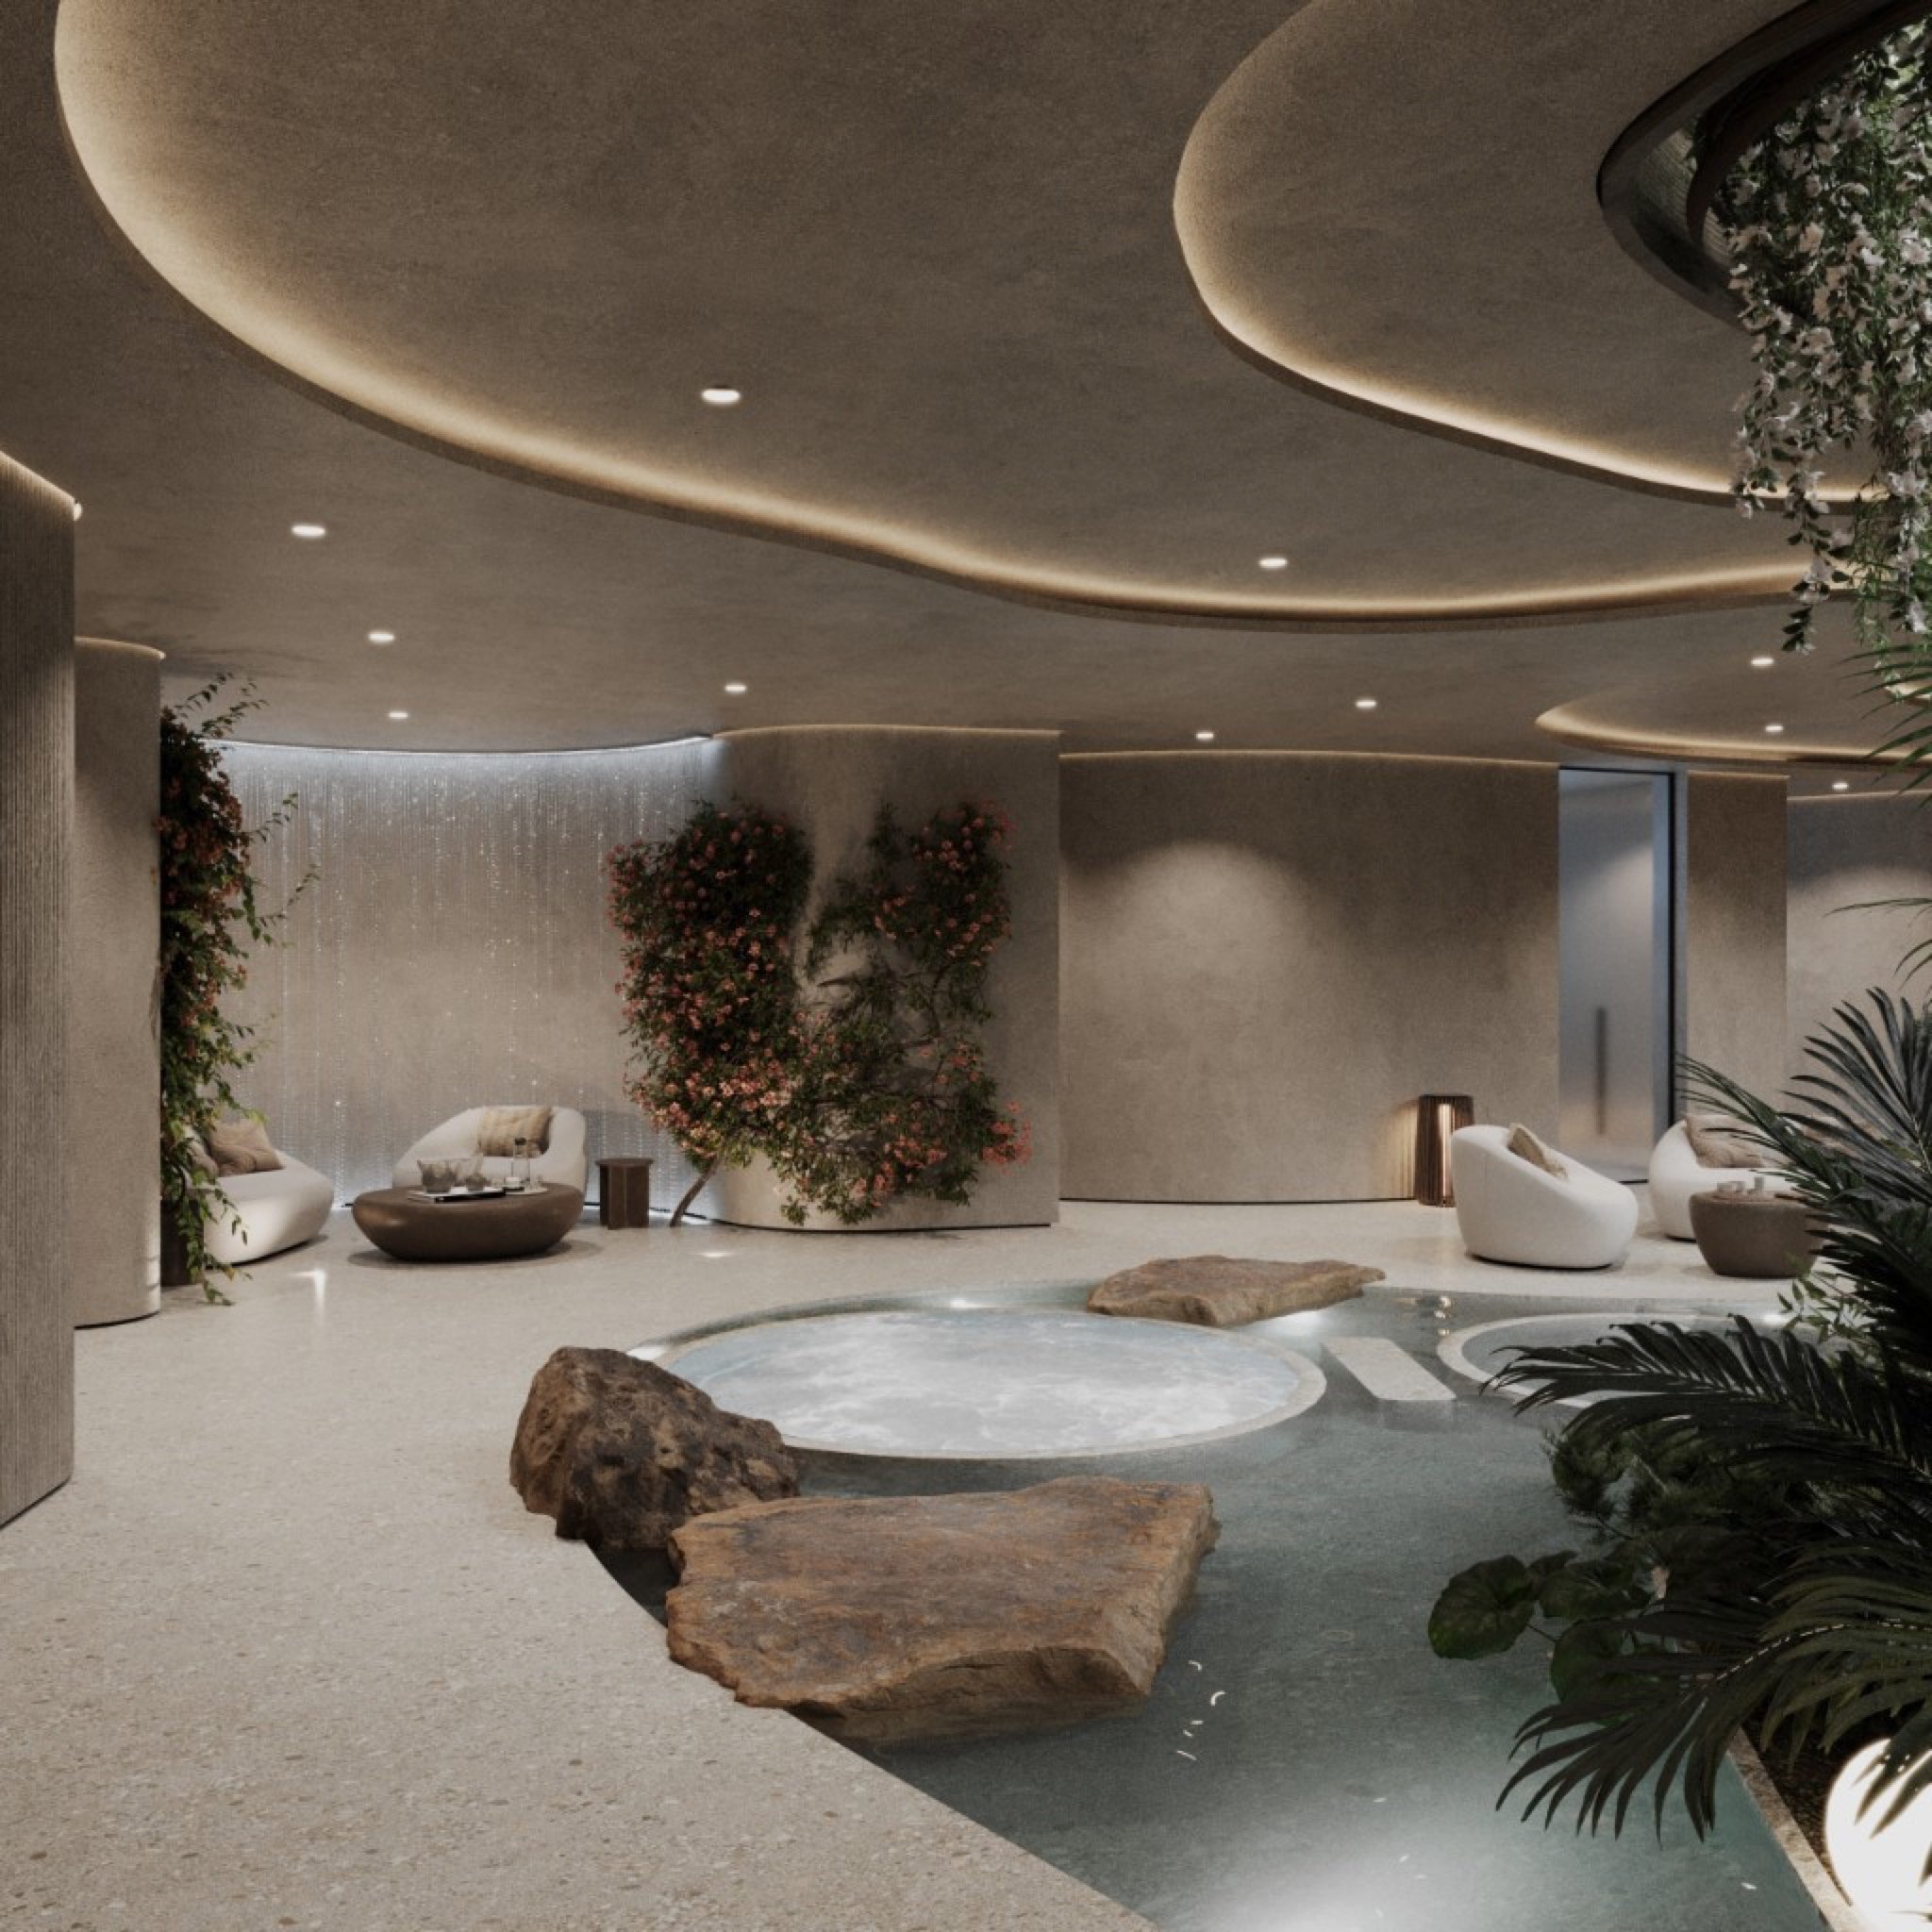
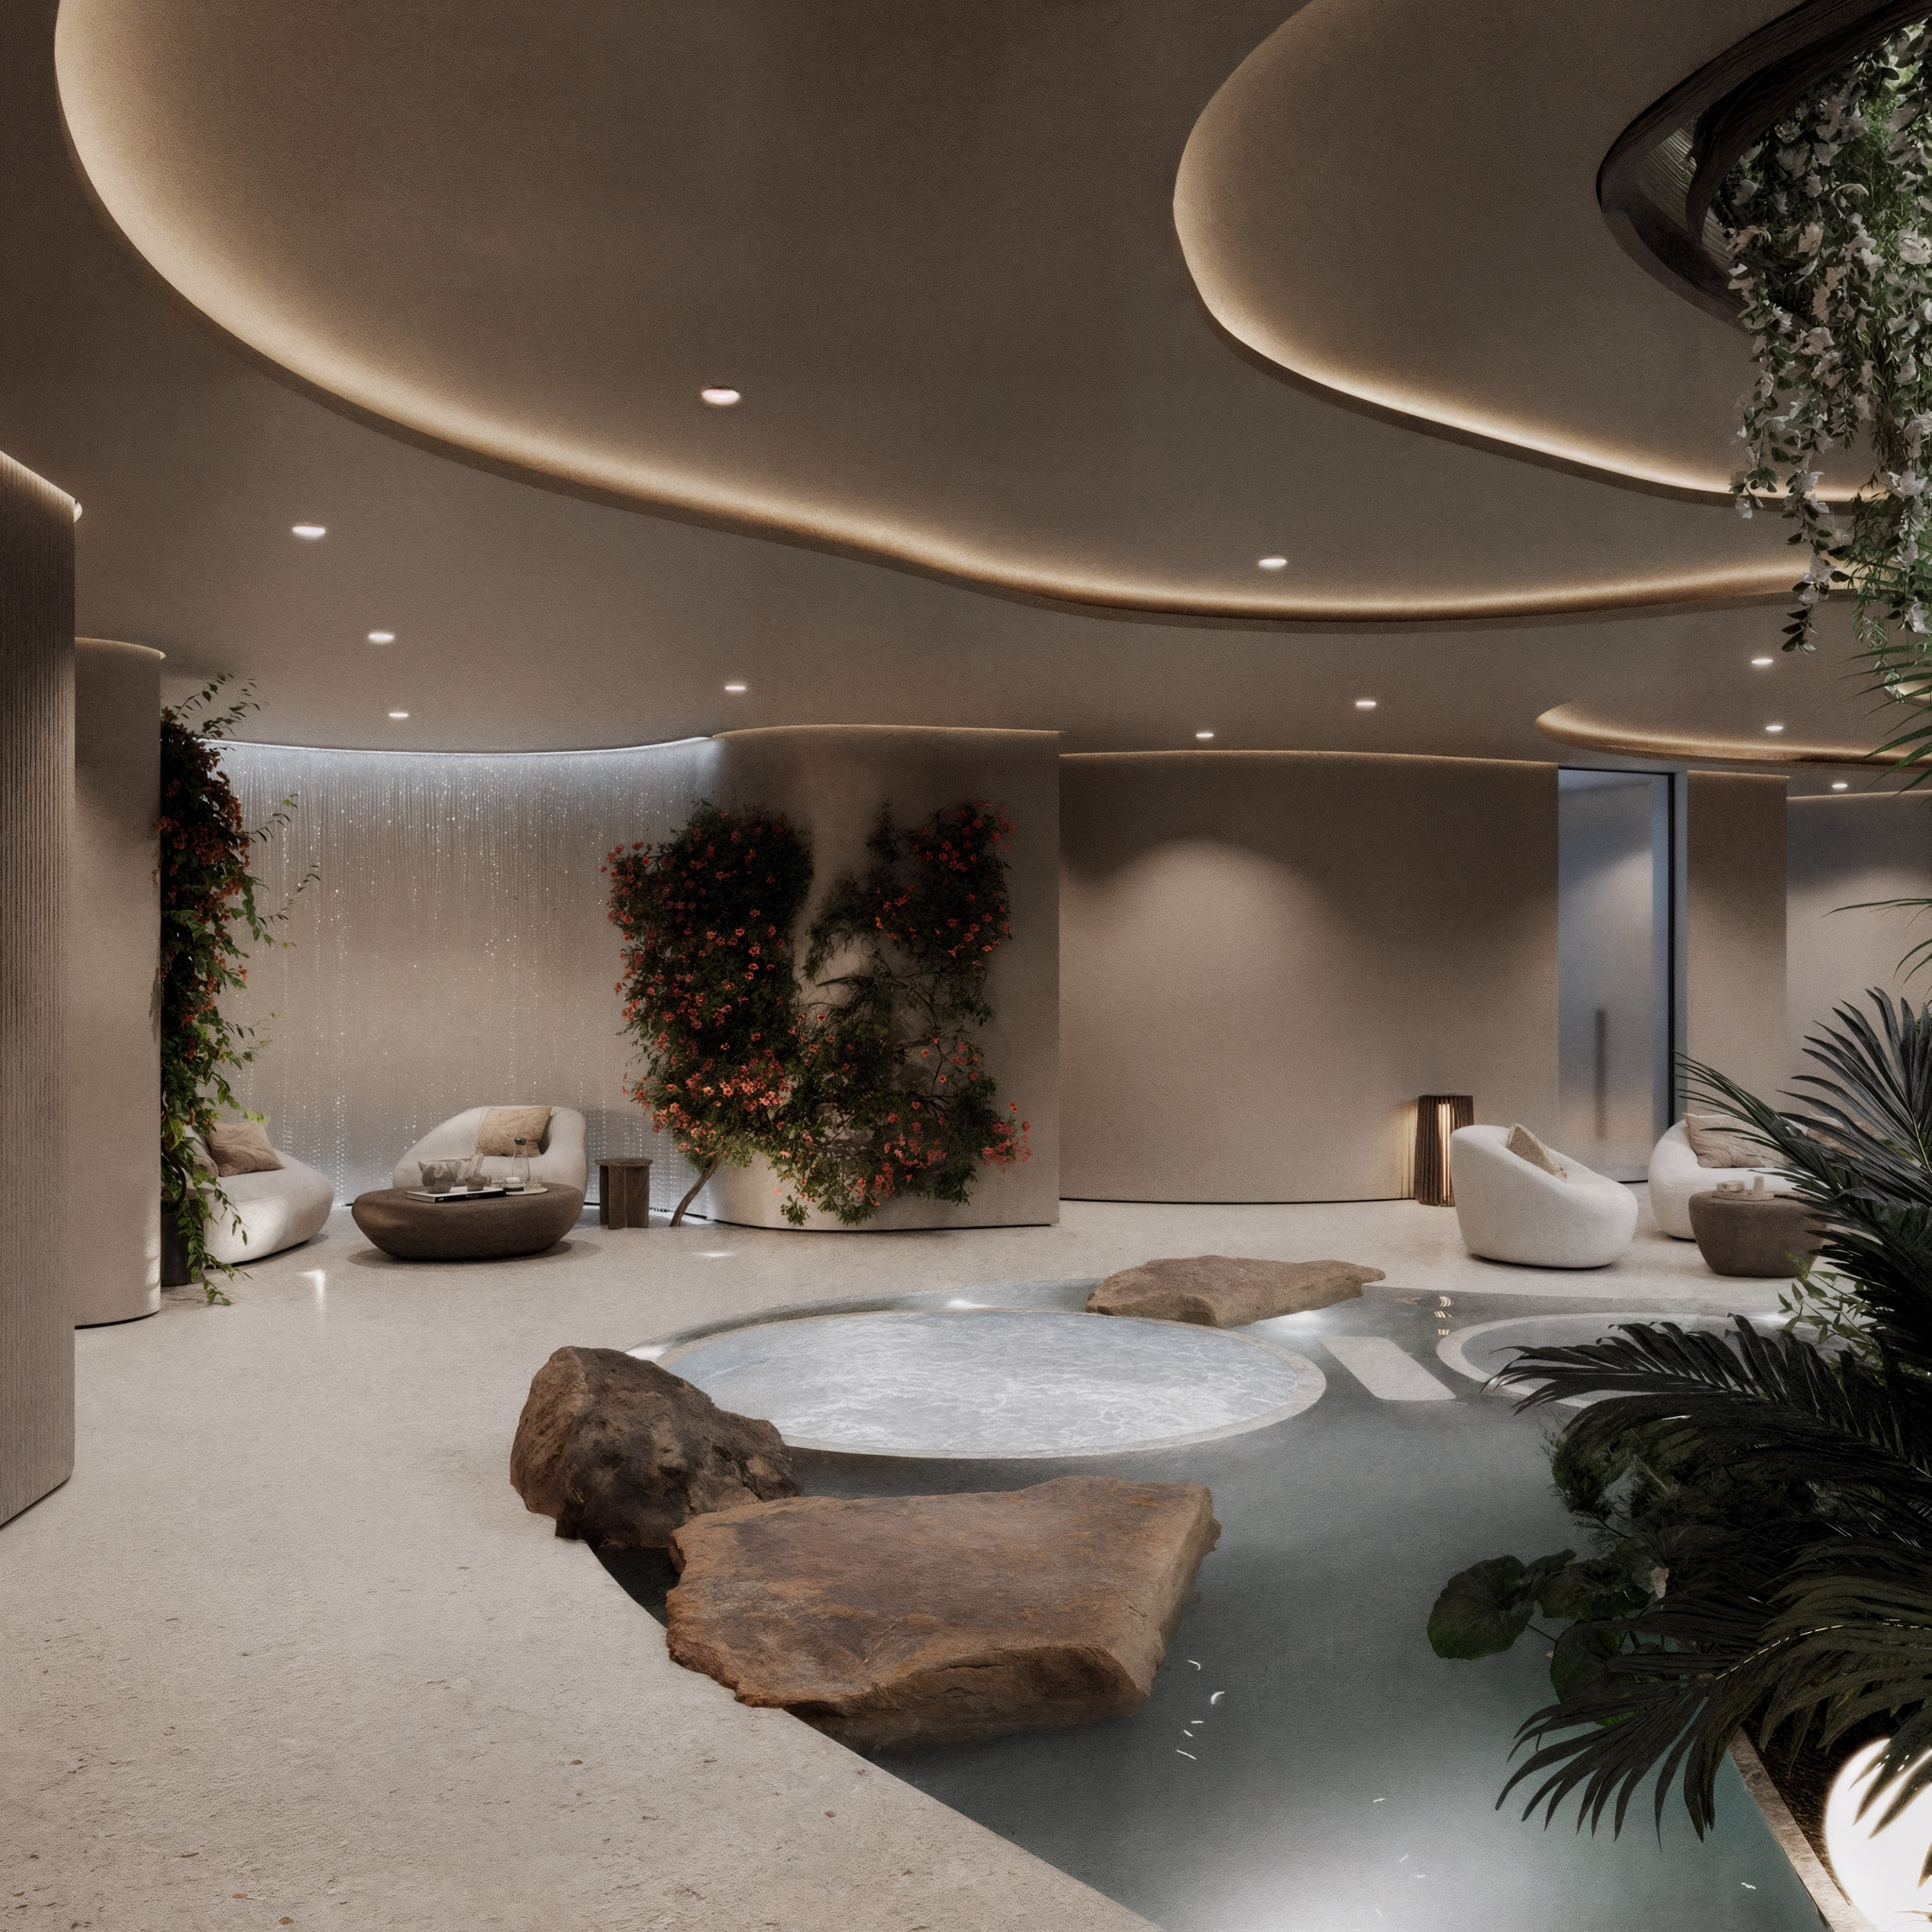
Update Jeri hero art and polish v3/v4 Days and Opening spacing.
Replace Jericoacoara hero with new Spa Lobby image, set Opening eyebrow to 16px in v4, increase Days top padding and meta-to-progress gap, and bump media cache version.

diff --git a/v4/overrides.css b/v4/overrides.css
@@ -52,7 +52,7 @@ body:has(.dock)::after {
 }
 
 .days__footer {
-  margin-top: 4px;
+  margin-top: calc(var(--space-sm) - var(--space-xxs));
 }
 
 .days__caption,
@@ -83,9 +83,9 @@ body:has(.dock)::after {
   border-radius: calc(24px * var(--days-scale));
 }
 
-/* Match ecosystem__copy top inset (60px) */
+/* Extra breathing room below Opening */
 #request.days {
-  padding-top: var(--space-section-top-60);
+  padding-top: calc(var(--space-section-top-60) + var(--space-md));
 }
 
 .opening__bg-slide .opening__bg-media.opening__bg-media--bleed {
@@ -296,8 +296,8 @@ body.menu-open .dock__icon-close {
 
 /* Opening copy typography */
 .opening__eyebrow {
-  font-size: 20px;
-  line-height: 1.3;
+  font-size: var(--text-sans-md);
+  line-height: var(--leading-sans);
 }
 
 .opening__title {

diff --git a/v3/overrides.css b/v3/overrides.css
@@ -50,7 +50,7 @@ body:has(.dock)::after {
 }
 
 .days__footer {
-  margin-top: 4px;
+  margin-top: calc(var(--space-sm) - var(--space-xxs));
 }
 
 .days__caption,
@@ -73,9 +73,9 @@ body:has(.dock)::after {
   pointer-events: none;
 }
 
-/* Match ecosystem__copy top inset (60px) */
+/* Extra breathing room below Opening */
 #request.days {
-  padding-top: var(--space-section-top-60);
+  padding-top: calc(var(--space-section-top-60) + var(--space-md));
 }
 
 .opening__bg-slide .opening__bg-media.opening__bg-media--bleed {

diff --git a/js/lazy-media.js b/js/lazy-media.js
@@ -1,7 +1,7 @@
 const ECOSYSTEM_GRADIENT =
   "linear-gradient(180deg, rgba(51, 47, 46, 0) 86.13%, #332f2e 108.21%)";
 
-export const MEDIA_VERSION = "20260612-1200";
+export const MEDIA_VERSION = "20260622-1500";
 
 /** No re-encode — keeps full source bitrate (footer CTA). */
 const SOURCE_ONLY_VIDEOS = new Set(["footer"]);

diff --git a/v3/index.html b/v3/index.html
@@ -311,6 +311,6 @@
       </button>
     </nav>
 
-    <script type="module" src="js/main.js?v=20260619-1200"></script>
+    <script type="module" src="js/main.js?v=20260622-1500"></script>
   </body>
 </html>

diff --git a/v3/js/data.js b/v3/js/data.js
@@ -2,7 +2,7 @@ export const HERO_LOCATIONS = [
   {
     id: "jericoacoara",
     label: "Jericoacoara, Brazil",
-    bg: "assets/enhanced_hero-bg-jericoacoara-suite.png?v=20260622-1100",
+    bg: "assets/enhanced_hero-bg-jericoacoara-suite.png?v=20260622-1500",
     href: "coming-soon.html",
   },
   {

diff --git a/v4/index.html b/v4/index.html
@@ -312,6 +312,6 @@
       </button>
     </nav>
 
-    <script type="module" src="js/main.js?v=20260619-1200"></script>
+    <script type="module" src="js/main.js?v=20260622-1500"></script>
   </body>
 </html>

diff --git a/v4/js/data.js b/v4/js/data.js
@@ -2,7 +2,7 @@ export const HERO_LOCATIONS = [
   {
     id: "jericoacoara",
     label: "Jericoacoara, Brazil",
-    bg: "assets/enhanced_hero-bg-jericoacoara-suite.png?v=20260622-1100",
+    bg: "assets/enhanced_hero-bg-jericoacoara-suite.png?v=20260622-1500",
     href: "coming-soon.html",
   },
   {